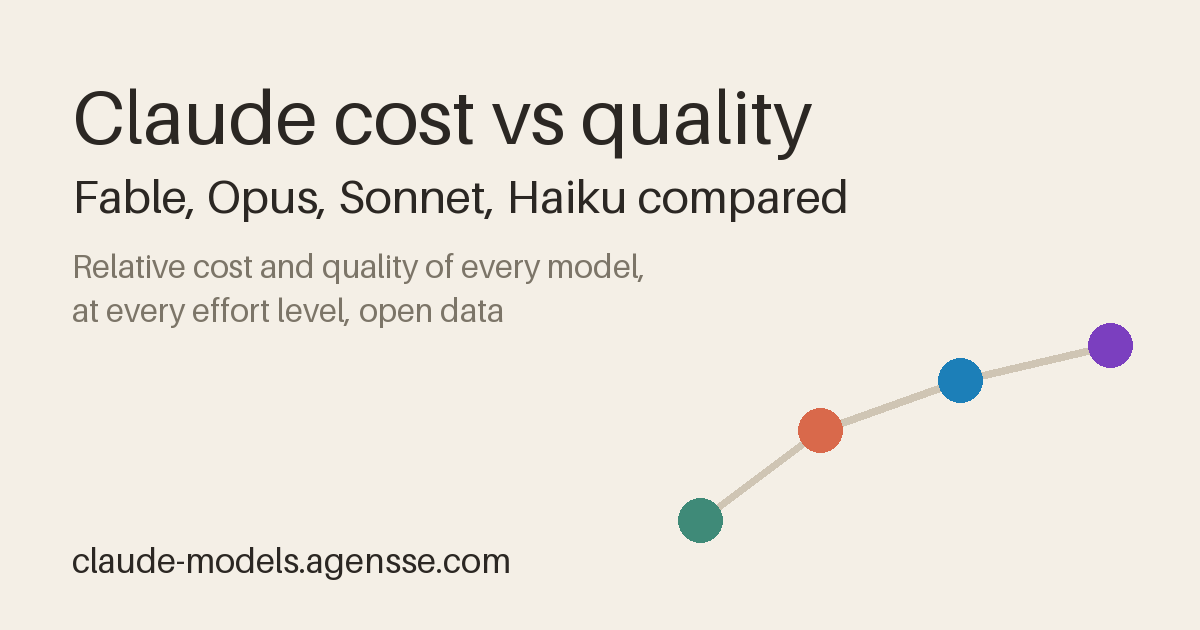
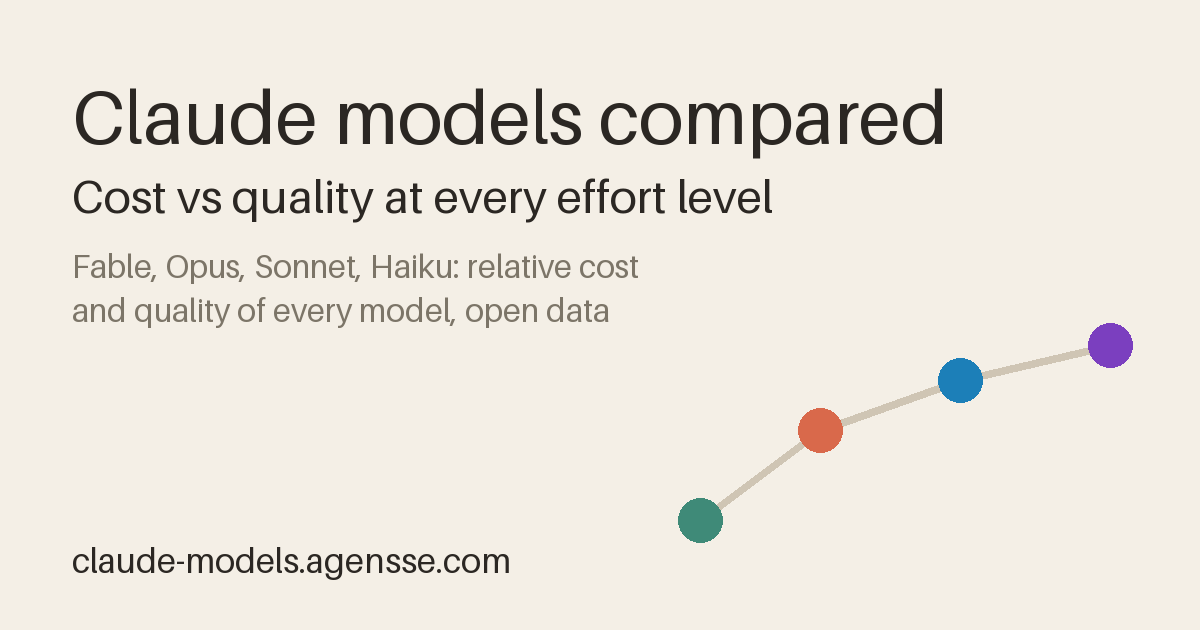
Title and h1 on the searched phrasing: Claude models compared, cost vs quality at every effort level

Changed region(s): [[0.0617, 0.2714, 0.7092, 0.3619], [0.2775, 0.1508, 0.8017, 0.2714], [0.0617, 0.3921, 0.5242, 0.5127]]

diff --git a/index.html b/index.html
@@ -3,19 +3,19 @@
 <head>
 <meta charset="utf-8">
 <meta name="viewport" content="width=device-width, initial-scale=1">
-<title>Claude cost vs quality: Fable, Opus, Sonnet, Haiku compared</title>
+<title>Claude models compared: cost vs quality at every effort level</title>
 <meta name="description" content="What each Claude model (Fable, Opus, Sonnet, Haiku) costs at every effort level, and which gives the best quality for the price. Open data, CC BY 4.0.">
 <link rel="canonical" href="https://claude-models.agensse.com/">
 <link rel="icon" href="favicon.svg" type="image/svg+xml">
 <link rel="icon" href="favicon.png" type="image/png" sizes="96x96">
 <meta property="og:type" content="website">
 <meta property="og:url" content="https://claude-models.agensse.com/">
-<meta property="og:title" content="Claude cost vs quality: Fable, Opus, Sonnet, Haiku compared">
+<meta property="og:title" content="Claude models compared: cost vs quality at every effort level">
 <meta property="og:description" content="What each Claude model (Fable, Opus, Sonnet, Haiku) costs at every effort level, and which gives the best quality for the price. Open data, CC BY 4.0.">
 <meta property="og:image" content="https://claude-models.agensse.com/og-image.png">
 <meta property="og:image:width" content="1200">
 <meta property="og:image:height" content="630">
-<meta property="og:image:alt" content="Claude cost vs quality: Fable, Opus, Sonnet, Haiku compared — claude-models.agensse.com">
+<meta property="og:image:alt" content="Claude models compared: cost vs quality at every effort level — claude-models.agensse.com">
 <meta name="twitter:card" content="summary_large_image">
 <meta name="msvalidate.01" content="F362761CB53AA11BE0A561143021D184">
 <script type="application/ld+json">
@@ -29,7 +29,7 @@
  {
   "@context": "https://schema.org",
   "@type": "Dataset",
-  "name": "Claude cost vs quality: Fable, Opus, Sonnet, Haiku compared",
+  "name": "Claude models compared: cost vs quality at every effort level",
   "description": "What each recent Claude model actually costs, at every effort level — reconstructed from public measurements and reduced to a relative cost by chaining same-task comparisons. Aggregated from 172 sources · 491 benchmarks · 3435 measurements; cost as a multiple of the cheapest couple, quality as the expected score on the benchmark panel.",
   "url": "https://claude-models.agensse.com/",
   "sameAs": "https://github.com/alexandregensse-blip/claude-models-value-analysis",
@@ -294,7 +294,7 @@ details.fold[open]>.card,details.fold[open]>.fold-body{margin-top:0;border-top-l
       <div class="gh-name">Alexandre Gensse</div>
     </div>
     <div class="eyebrow">Data analysis · aggregated from <span class="nsrc">172 sources · 491 benchmarks · 3435 measurements</span></div>
-    <h1>Claude cost vs quality <span class="h1-line">Fable, Opus, Sonnet, Haiku compared</span></h1>
+    <h1>Claude models compared <span class="h1-line">cost vs quality at every effort level</span></h1>
     <div class="hero-row">
       <div class="lede-col">
         <p class="lede">What each recent Claude model actually costs, at every effort level, and the quality it delivers — fused from public benchmark measurements for every (model, effort) pair.</p>

diff --git a/site/body.html b/site/body.html
@@ -5,7 +5,7 @@
       <div class="gh-name">Alexandre Gensse</div>
     </div>
     <div class="eyebrow">Data analysis · aggregated from <span class="nsrc">…</span></div>
-    <h1>Claude cost vs quality <span class="h1-line">Fable, Opus, Sonnet, Haiku compared</span></h1>
+    <h1>Claude models compared <span class="h1-line">cost vs quality at every effort level</span></h1>
     <div class="hero-row">
       <div class="lede-col">
         <p class="lede">What each recent Claude model actually costs, at every effort level, and the quality it delivers — fused from public benchmark measurements for every (model, effort) pair.</p>

diff --git a/site/assets/og_image.py b/site/assets/og_image.py
@@ -18,10 +18,10 @@ img = Image.new("RGB", (W, H), PAPER)
 d = ImageDraw.Draw(img)
 font = lambda size: ImageFont.load_default(size=size)
 
-d.text((72, 70), "Claude cost vs quality", font=font(76), fill=INK)
-d.text((72, 168), "Fable, Opus, Sonnet, Haiku compared", font=font(46), fill=INK)
-d.text((72, 246), "Relative cost and quality of every model,", font=font(32), fill=MUTED)
-d.text((72, 290), "at every effort level, open data", font=font(32), fill=MUTED)
+d.text((72, 70), "Claude models compared", font=font(76), fill=INK)
+d.text((72, 168), "Cost vs quality at every effort level", font=font(46), fill=INK)
+d.text((72, 246), "Fable, Opus, Sonnet, Haiku: relative cost", font=font(32), fill=MUTED)
+d.text((72, 290), "and quality of every model, open data", font=font(32), fill=MUTED)
 d.text((72, 540), SITE_HOST, font=font(34), fill=INK)
 
 # Frontier motif, bottom right: a rising curve, dots unlabelled (the ranking lives in the data, not in the image).

diff --git a/site/config.py b/site/config.py
@@ -8,7 +8,7 @@ OUT  = os.path.join(ROOT, "index.html")   # the served files are generated at th
 # Publication: every absolute URL derives from SITE_URL (canonical root, trailing slash).
 SITE_URL    = "https://claude-models.agensse.com/"
 REPO_URL    = "https://github.com/alexandregensse-blip/claude-models-value-analysis"
-TITLE       = "Claude cost vs quality: Fable, Opus, Sonnet, Haiku compared"
+TITLE       = "Claude models compared: cost vs quality at every effort level"
 SITE_NAME   = "Claude cost vs quality"   # site name suggested to Google (JSON-LD WebSite) instead of the bare domain
 DESCRIPTION = ("What each Claude model (Fable, Opus, Sonnet, Haiku) costs at every effort level, and which gives "
                "the best quality for the price. Open data, CC BY 4.0.")
